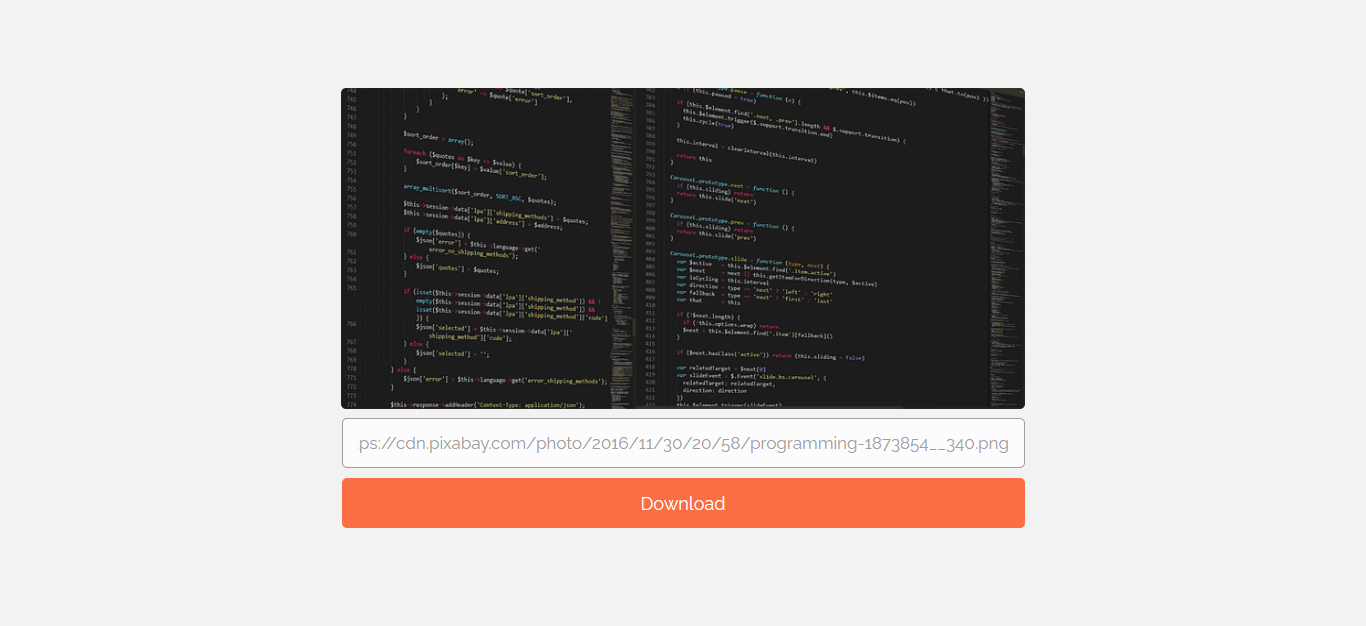
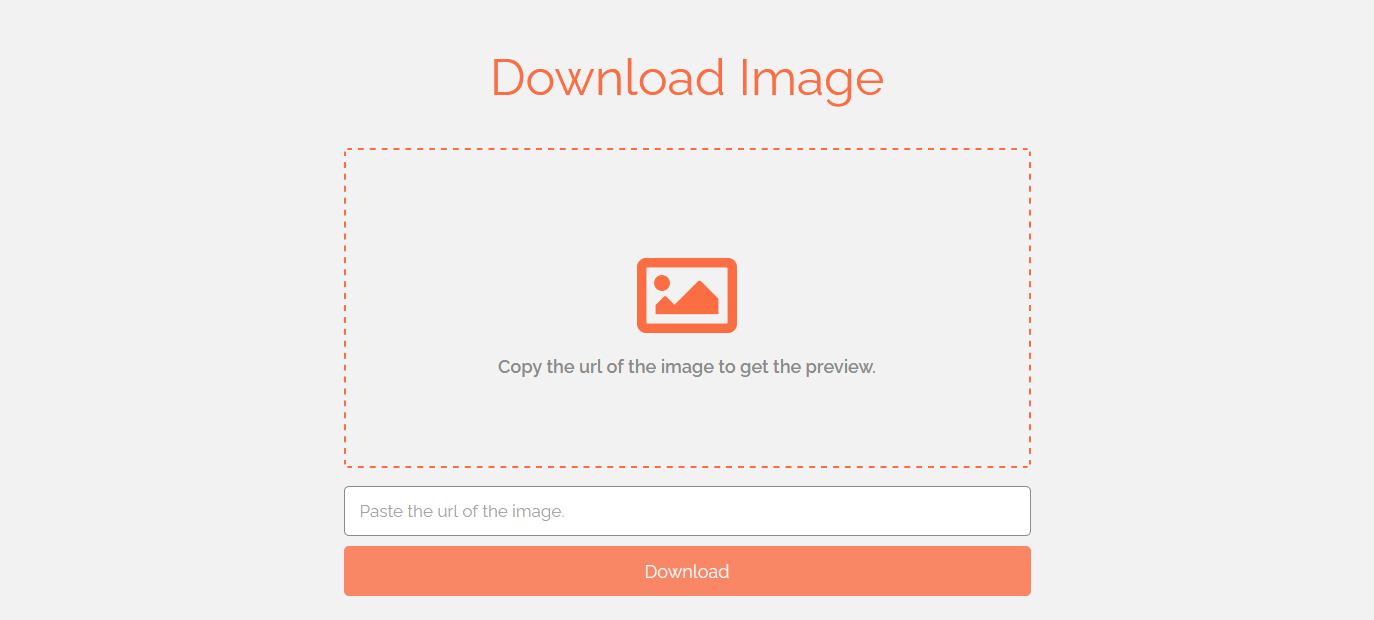
We add title and change the preview

diff --git a/styles/styles.css b/styles/styles.css
@@ -21,11 +21,18 @@ html, body {
     display: flex;
     position: relative;
     width: 50%;
-    height: 450px;
+    height: 600px;
     flex-direction: column;
-    justify-content: space-between;
+    justify-content: space-around;
     align-items: center;
     left: 25%;
+}
+
+.container h1 {
+    font-size: 50px;
+    color: #fb6d43;
+    font-weight: 500;
+    text-align: center;
 }
 
 /*===========================

diff --git a/view.php b/view.php
@@ -24,6 +24,7 @@
 </head>
 <body>
     <div class="container">
+        <h1>Download Image</h1>
         <!--===============
         <|-Preview Image-|>
         ================-->
